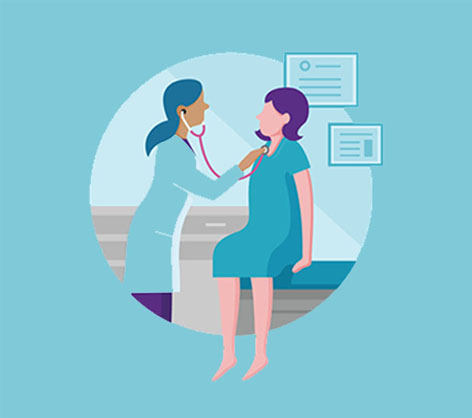
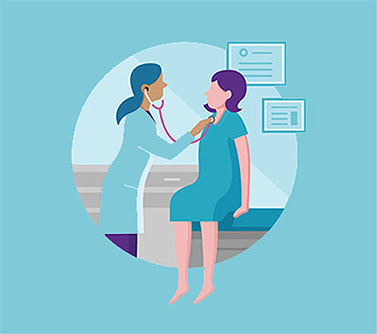
Image correction

diff --git a/src/components/featured.jsx b/src/components/featured.jsx
@@ -20,7 +20,9 @@ export default class Featured extends Component {
                 <div className="col-sm-8 text-left" data-aos="fade">
                   <p>Complete a questionnaire to define your food preferences. Select suggested items from participating grocers, restaurants, or meal delivery services to receive items at a discount. Pick up the wholesome meals and groceries you select or have them delivered directly to your door.</p>
                   <p><b>Ask your healthcare provider if you’re eligible to join.</b></p>
-                  <img src="images/talent_pipelines-sm.jpg" alt="Image" class="center" style="max-width: 60%; height: auto" /> 
+                </div>
+                <div className="col-12 text-center" data-aos="fade">
+                  <img src="images/talent_pipelines-sm.jpg" alt="Image" /> 
                 </div>
               </div>
             </div></section>

diff --git a/src/components/ai.jsx b/src/components/ai.jsx
@@ -20,7 +20,9 @@ export default class AI extends Component {
             <div className="col-sm-8 text-left" data-aos="fade">
               <p>We don't need to tell you that better nutrition results in better health outcomes for patients. You are one of the providers or healthcare orgs that is paving the way for wellness care. Suggest the <b>athenaBento</b> program to any patient that would like easier access to healthy meals.</p>
               <p><b>Sign up</b> to learn more or <b>Sign In</b> to track program progress or subsidies for your participation.</p> 
-              <img src="images/featured-sm.jpg" alt="Image" class="center" style="max-width: 60%; height: auto" />
+            </div>
+            <div className="col-12 text-center" data-aos="fade">
+                <img src="images/featured-sm.jpg" alt="Image" /> 
             </div>
           </div>
         </div></section>

diff --git a/src/components/bigdata.jsx b/src/components/bigdata.jsx
@@ -20,8 +20,10 @@ export default class BigData extends Component {
             <div className="col-sm-8 text-left" data-aos="fade">
               <p>You know exactly which foods will make your clients glow! Designate the menu or grocery items ideal for bento  clients. The items you select appear with icons in online grocery or delivery menu pages for easy identification.</p>
               <p><b>Sign up</b> to learn more or <b>Sign In</b> to designate menu or grocery recommendations.</p>
-              <img src="images/human_centered_ai-sm.png" alt="Image" class="center" style="max-width: 60%; height: auto" /> 
             </div>
+            <div className="col-12 text-center" data-aos="fade">
+                <img src="images/human_centered_ai-sm.png" alt="Image" /> 
+              </div>
           </div>
         </div></section>
       <section>

diff --git a/src/components/cybersecurity.jsx b/src/components/cybersecurity.jsx
@@ -20,7 +20,9 @@ export default class CyberSecurity extends Component {
             <div className="col-sm-8 text-left" data-aos="fade">
               <p>If you are a food delivery service or grocer, you are perfectly poised to help people live healthier lives. Imagine leading the charge while growing your customer base AND collecting subsidies for your participation.</p>
               <p><b>Sign up</b> to learn more or <b>Sign In</b> to  view customer participation or track reimbursement subsidies.</p>
-              <img src="images/cyber_security-sm.jpg" alt="Image" class="center" style="max-width: 60%; height: auto" /> 
+              <div className="col-12 text-center" data-aos="fade">
+                <img src="images/cyber_security-sm.jpg" alt="Image" /> 
+              </div>
             </div>
           </div>
         </div></section>
